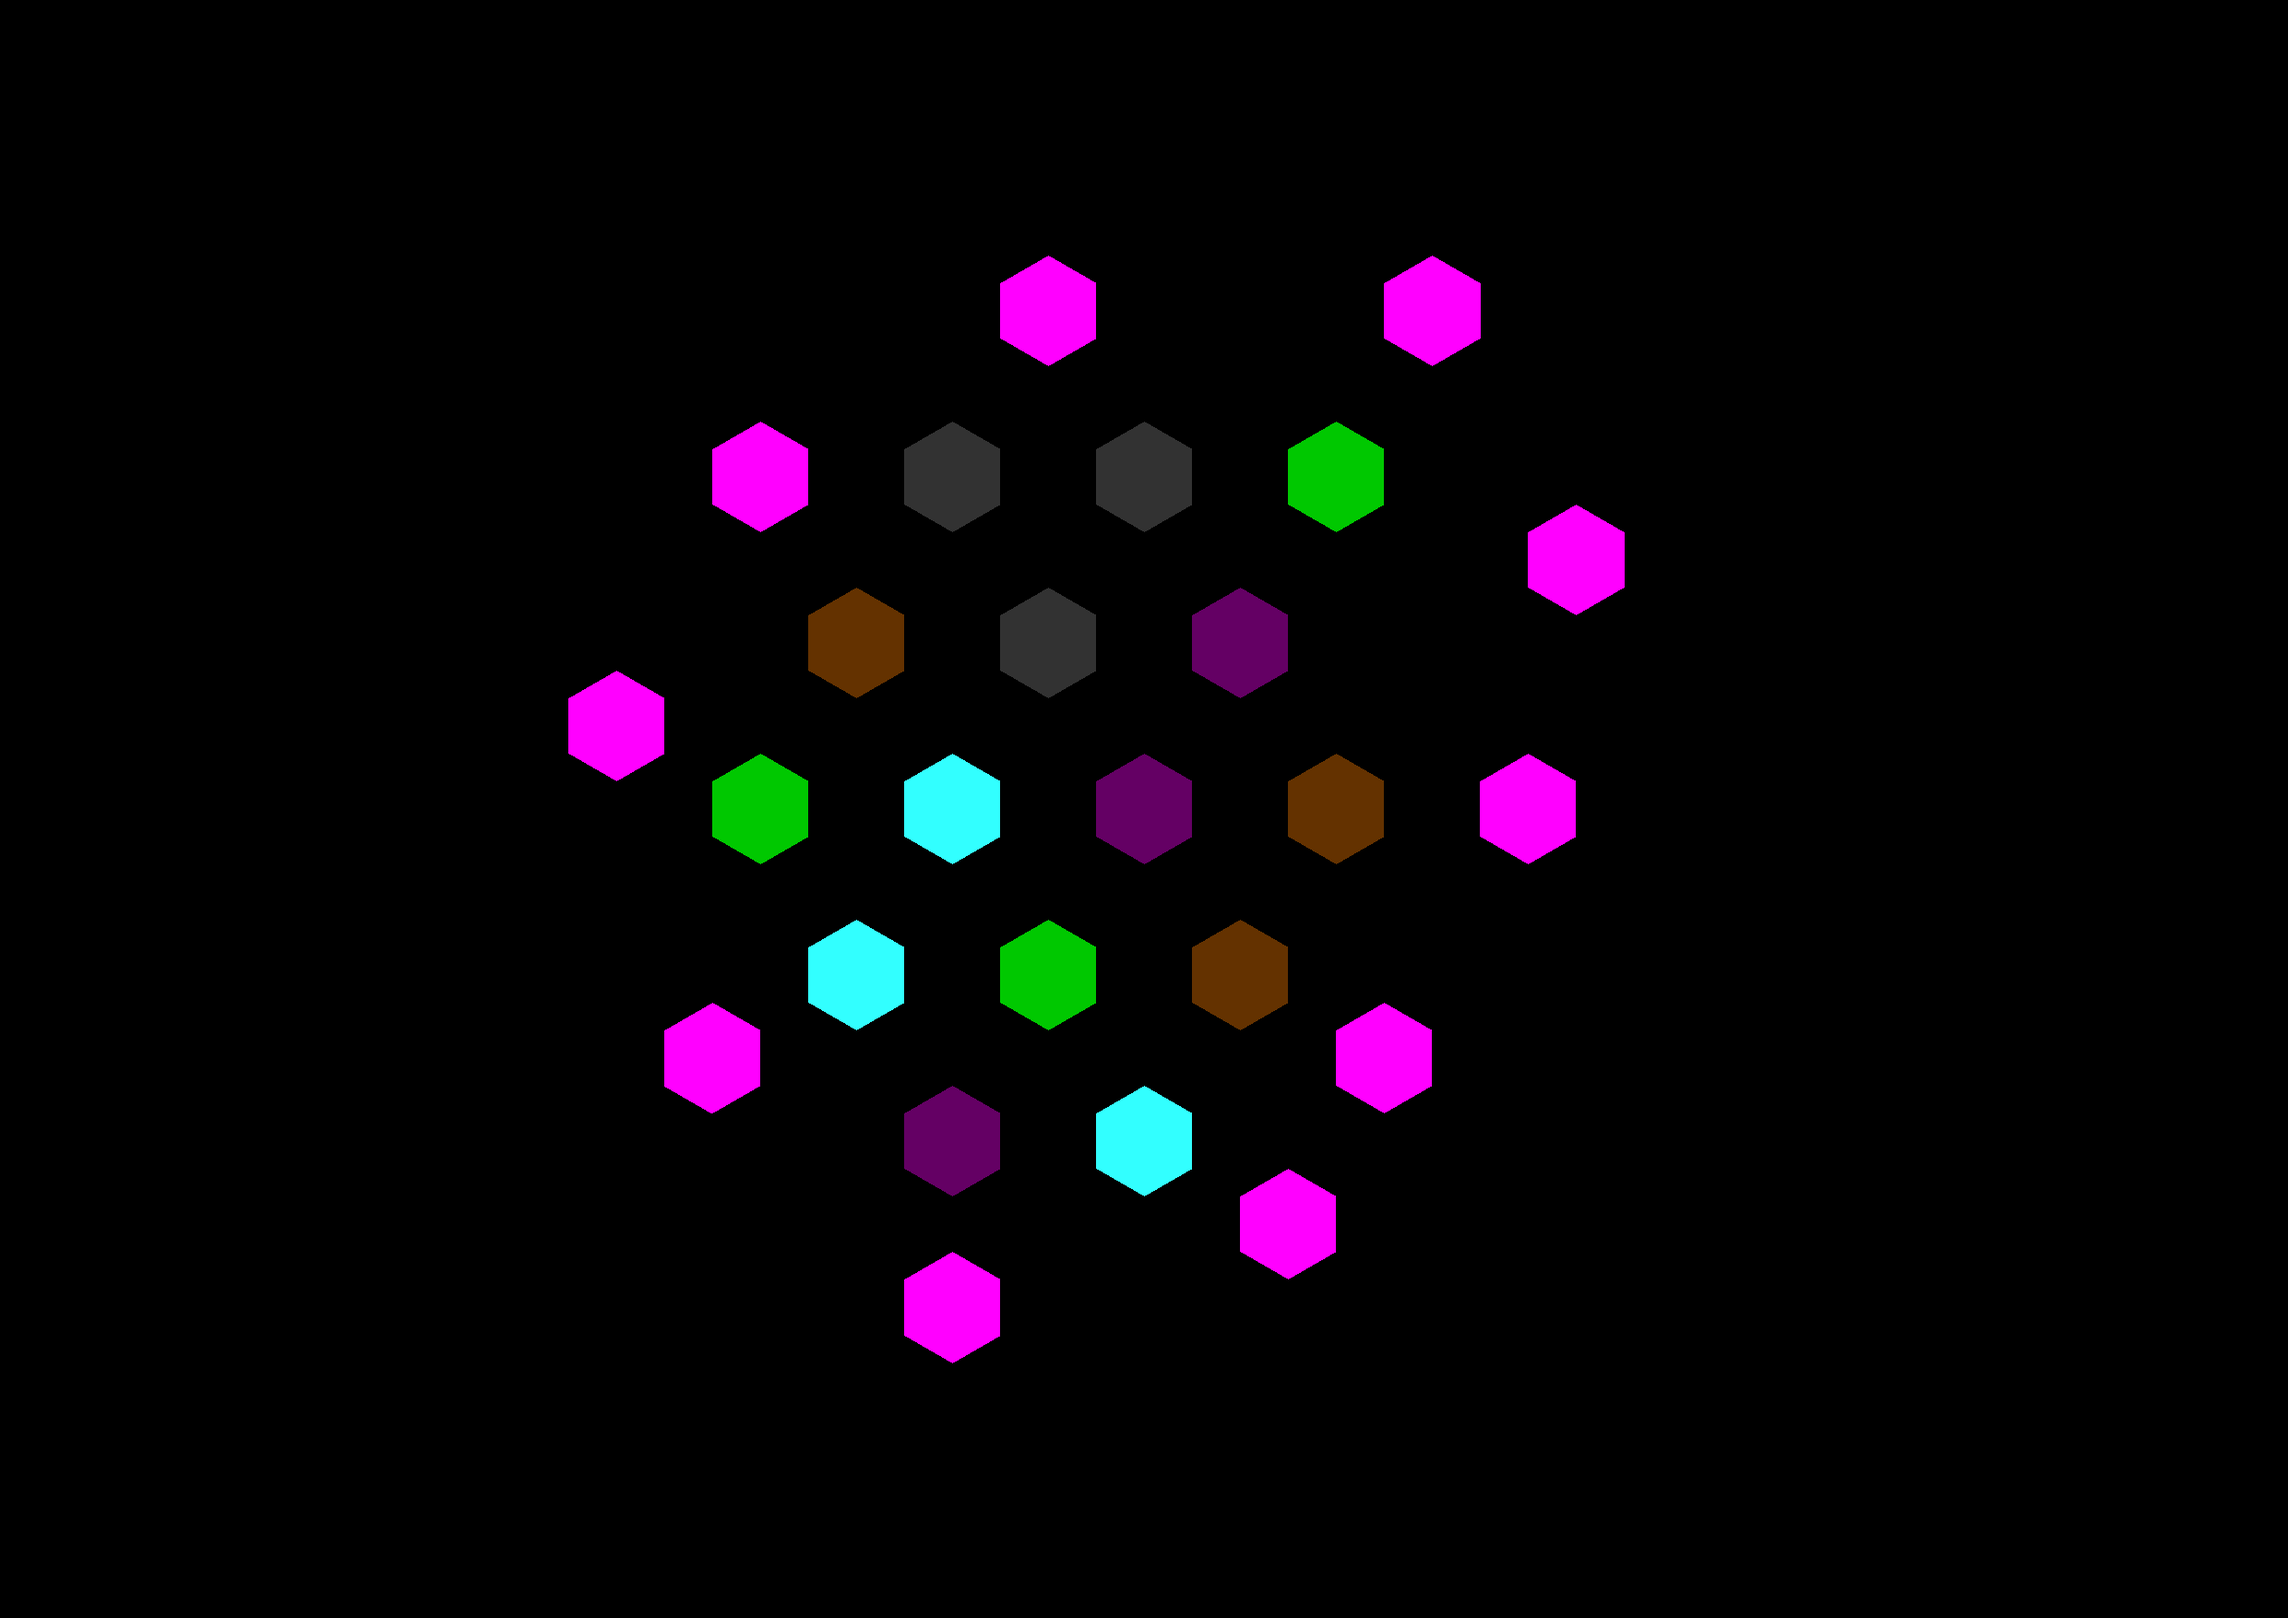
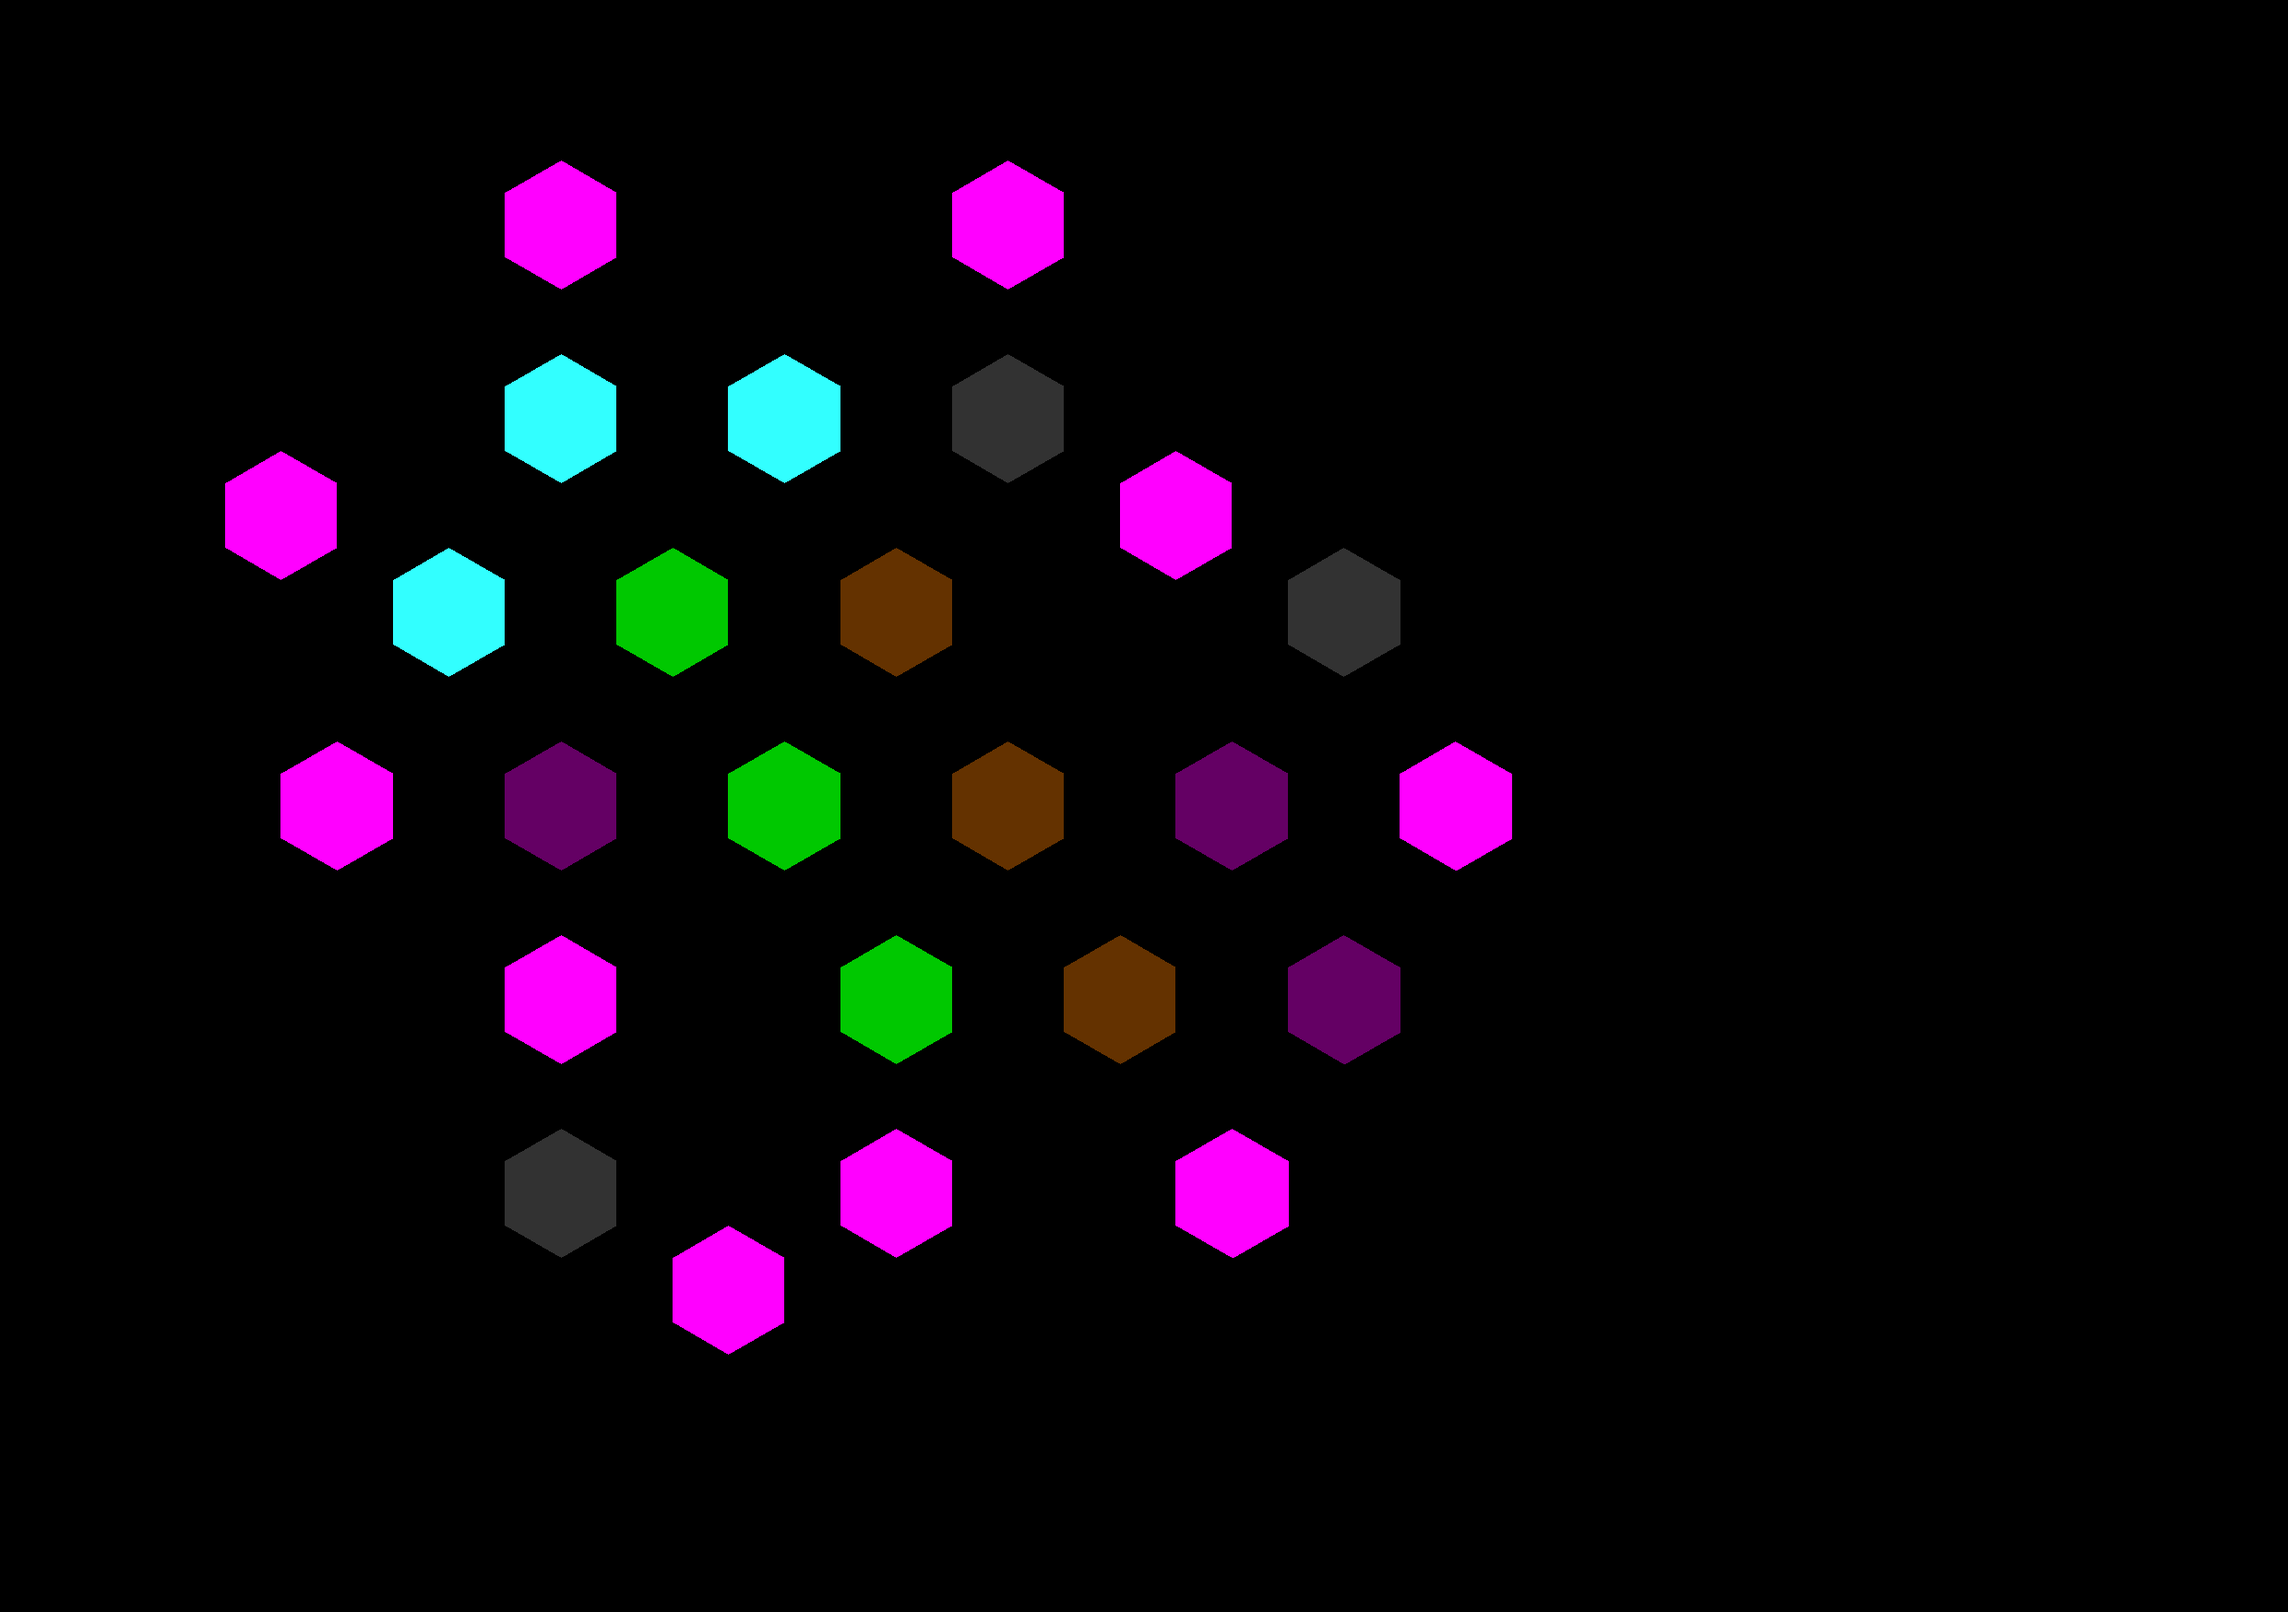
Add hexmap offset and refactor image generation logic

diff --git a/src/main.rs b/src/main.rs
@@ -3,18 +3,26 @@ mod hexmap;
 mod drawing;
 
 use std::error::Error;
-
+use hexx::Vec2;
 use rand::{Rng, rng};
-use hexmap::*;
 use image::*;
 
+
+use hexmap::*;
 use crate::drawing::{DrawHexMap, ImageConfig};
 
-const WIDTH: u32 = 2480;
-const HEIGHT: u32 = 1754;
+const ERROR_TIMEOUT_LIMIT: u8 = 20;
 
-fn try_gen<R: Rng>(rng: &mut R) -> Result<(TileMap_shape, TileMap_templates, TileMap_props), String> {
-    let raw = TileMap_rawShapeGen::new(MapSize::Big, rng)?;
+const WIDTH: u32 = 2480;
+const HEIGHT: u32 = 1748;
+
+const HEX_RADIUS_BIG: f32 = 70.00;
+const HEX_RADIUS_SMALL: f32 = 70.00;
+
+const HEXMAP_OFFSET: Vec2 = Vec2 { x: 850.0, y: 874.0 };
+
+fn try_gen<R: Rng>(rng: &mut R, size: MapSize) -> Result<(TileMap_shape, TileMap_templates, TileMap_props), String> {
+    let raw = TileMap_rawShapeGen::new(size, rng)?;
     let shape = TileMap_shape::new(raw)?;
 
     let props = TileMap_props::new(rng, &shape)?;
@@ -23,27 +31,36 @@ fn try_gen<R: Rng>(rng: &mut R) -> Result<(TileMap_shape, TileMap_templates, Til
 }
 
 fn main() -> Result<(), Box<dyn Error>> {
+    let size = MapSize::Small;
+
     let mut rng = rng();
-    let mut img1: ImageBuffer<Rgb<u8>, Vec<u8>> = ImageBuffer::new(WIDTH, HEIGHT);
-    let mut img2: ImageBuffer<Rgb<u8>, Vec<u8>> = ImageBuffer::new(WIDTH, HEIGHT);
-    let mut img3: ImageBuffer<Rgb<u8>, Vec<u8>> = ImageBuffer::new(WIDTH, HEIGHT);
-    let image_config = ImageConfig { height: HEIGHT, width: WIDTH, hex_radius: 60.0 };
+    let mut image_shape: ImageBuffer<Rgb<u8>, Vec<u8>> = ImageBuffer::new(WIDTH, HEIGHT);
+    let mut image_props: ImageBuffer<Rgb<u8>, Vec<u8>> = ImageBuffer::new(WIDTH, HEIGHT);
+    let mut image_templates: ImageBuffer<Rgb<u8>, Vec<u8>> = ImageBuffer::new(WIDTH, HEIGHT);
+    let image_config = ImageConfig { 
+        height: HEIGHT, 
+        width: WIDTH, 
+        hex_radius: match_size!(size, HEX_RADIUS_BIG, HEX_RADIUS_SMALL),
+        hexmap_offset: HEXMAP_OFFSET
+    };
     
+    let mut error_counter = 0;
     let (shape, templates, props) = loop {
-        let res= try_gen(&mut rng);
+        if error_counter > ERROR_TIMEOUT_LIMIT {panic!("timeout during generation")}
+        let res= try_gen(&mut rng, size);
         if let Ok(value) = res {break value} 
-        else {println!("{}", res.err().unwrap())}
+        else {error_counter += 1; println!("{}", res.err().unwrap())}
     };
     
     
-    shape.draw(&mut img1, image_config);
-    img1.save(r"C:\Users\piotr\Documents\code_projects\rust\tucan-v2\image_shape.png")?;
+    shape.draw(&mut image_shape, image_config);
+    image_shape.save(r"C:\Users\piotr\Documents\code_projects\rust\tucan-v2\image_shape.png")?;
 
-    props.draw(&mut img2, image_config);
-    img2.save(r"C:\Users\piotr\Documents\code_projects\rust\tucan-v2\image_props.png")?;
+    props.draw(&mut image_props, image_config);
+    image_props.save(r"C:\Users\piotr\Documents\code_projects\rust\tucan-v2\image_props.png")?;
 
-    templates.draw(&mut img3, image_config);
-    img3.save(r"C:\Users\piotr\Documents\code_projects\rust\tucan-v2\image_templates.png")?;
+    templates.draw(&mut image_templates, image_config);
+    image_templates.save(r"C:\Users\piotr\Documents\code_projects\rust\tucan-v2\image_templates.png")?;
 
     Ok(())
 }

diff --git a/src/hexmap.rs b/src/hexmap.rs
@@ -48,6 +48,7 @@ macro_rules! rgb {
 /// Second is if big
 /// 
 /// Third is if small
+#[macro_export]
 macro_rules! match_size {
     ($name:expr, $big:expr, $small:expr) => {
         match $name {
@@ -81,7 +82,11 @@ pub struct TileMap_rawShapeGen {
 impl TileMap_rawShapeGen {
     
     pub fn new<R: Rng>(size: MapSize, rng: &mut R) -> Result<Self> {
-        let mut map = HexagonalMap::new(Hex::ZERO, match_size!(size, HEXMAP_RADIUS_BIG, HEXMAP_RADIUS_SMALL), |_| RawTileState::Unknown);
+        let mut map = HexagonalMap::new(
+            Hex::ZERO, 
+            match_size!(size, HEXMAP_RADIUS_BIG, HEXMAP_RADIUS_SMALL), 
+            |_| RawTileState::Unknown);
+        
         map[Hex::ZERO] = RawTileState::FreeToTake;
 
         let mut map = Self { map, size };
@@ -89,6 +94,7 @@ impl TileMap_rawShapeGen {
         for i in 0..size as u8 {
             map.do_a_run(rng, i < MIN_HEX_NEIGHBORS);
         };
+        // println!("{:?} {}", size, match_size!(size, HEXMAP_RADIUS_BIG, HEXMAP_RADIUS_SMALL));
         Ok(map)
     }
 
@@ -401,7 +407,7 @@ impl DrawHexMap for TileMap_templates {
         for (hex, state) in self.iter() {
             let pos = Self::get_pos(hex, image_config);
             let points = get_hex_points(pos, image_config.hex_radius);
-            if let Some(template) = state { draw_polygon_mut(img, &points, if hex == Hex::ZERO {Rgb([255, 0, 0])} else {template.color()}) }
+            if let Some(template) = state { draw_polygon_mut(img, &points, if hex == Hex::ZERO {rgb!(255, 0, 0)} else {template.color()}) }
         }
     }
 }
@@ -495,8 +501,8 @@ impl TileMap_props {
             }
             match ring.next() {
                 Some(hex) => {if 
-                        *shape.get(hex).ok_or(format!("ring index out of bounds. Hex {hex:?}"))? && 
-                        !self.get(hex).ok_or(format!("ring index out of bounds. Hex {hex:?}"))?.is_allowed() 
+                        *shape.get(hex).ok_or(format!("ring index out of bounds. Hex: {hex:?} ring size: {ring_distance}"))? && 
+                        !self.get(hex).ok_or(format!("ring index out of bounds. Hex: {hex:?} ring size: {ring_distance}"))?.is_allowed() 
                         && !hex.all_neighbors().iter()
                             .any(|h| self.get(*h).unwrap_or(&PropOption::NotAllowed).has_prop()) 
                     {

diff --git a/src/drawing.rs b/src/drawing.rs
@@ -8,7 +8,9 @@ use imageproc::drawing::Canvas;
 pub struct ImageConfig {
     pub width: u32,
     pub height: u32,
-    pub hex_radius: f32
+    pub hex_radius: f32,
+
+    pub hexmap_offset: Vec2
 }
 
 #[must_use]
@@ -33,7 +35,7 @@ pub trait DrawHexMap {
     #[must_use]
     fn get_pos(pos: Hex, image_config: ImageConfig) -> Vec2 {
         let layout = HexLayout { 
-            origin: Vec2 { x: image_config.width as f32/2.0, y: image_config.height as f32 / 2.0 }, 
+            origin: image_config.hexmap_offset, 
             orientation: HexOrientation::Pointy,
             scale: Vec2::splat(image_config.hex_radius) };
         layout.hex_to_world_pos(pos)
